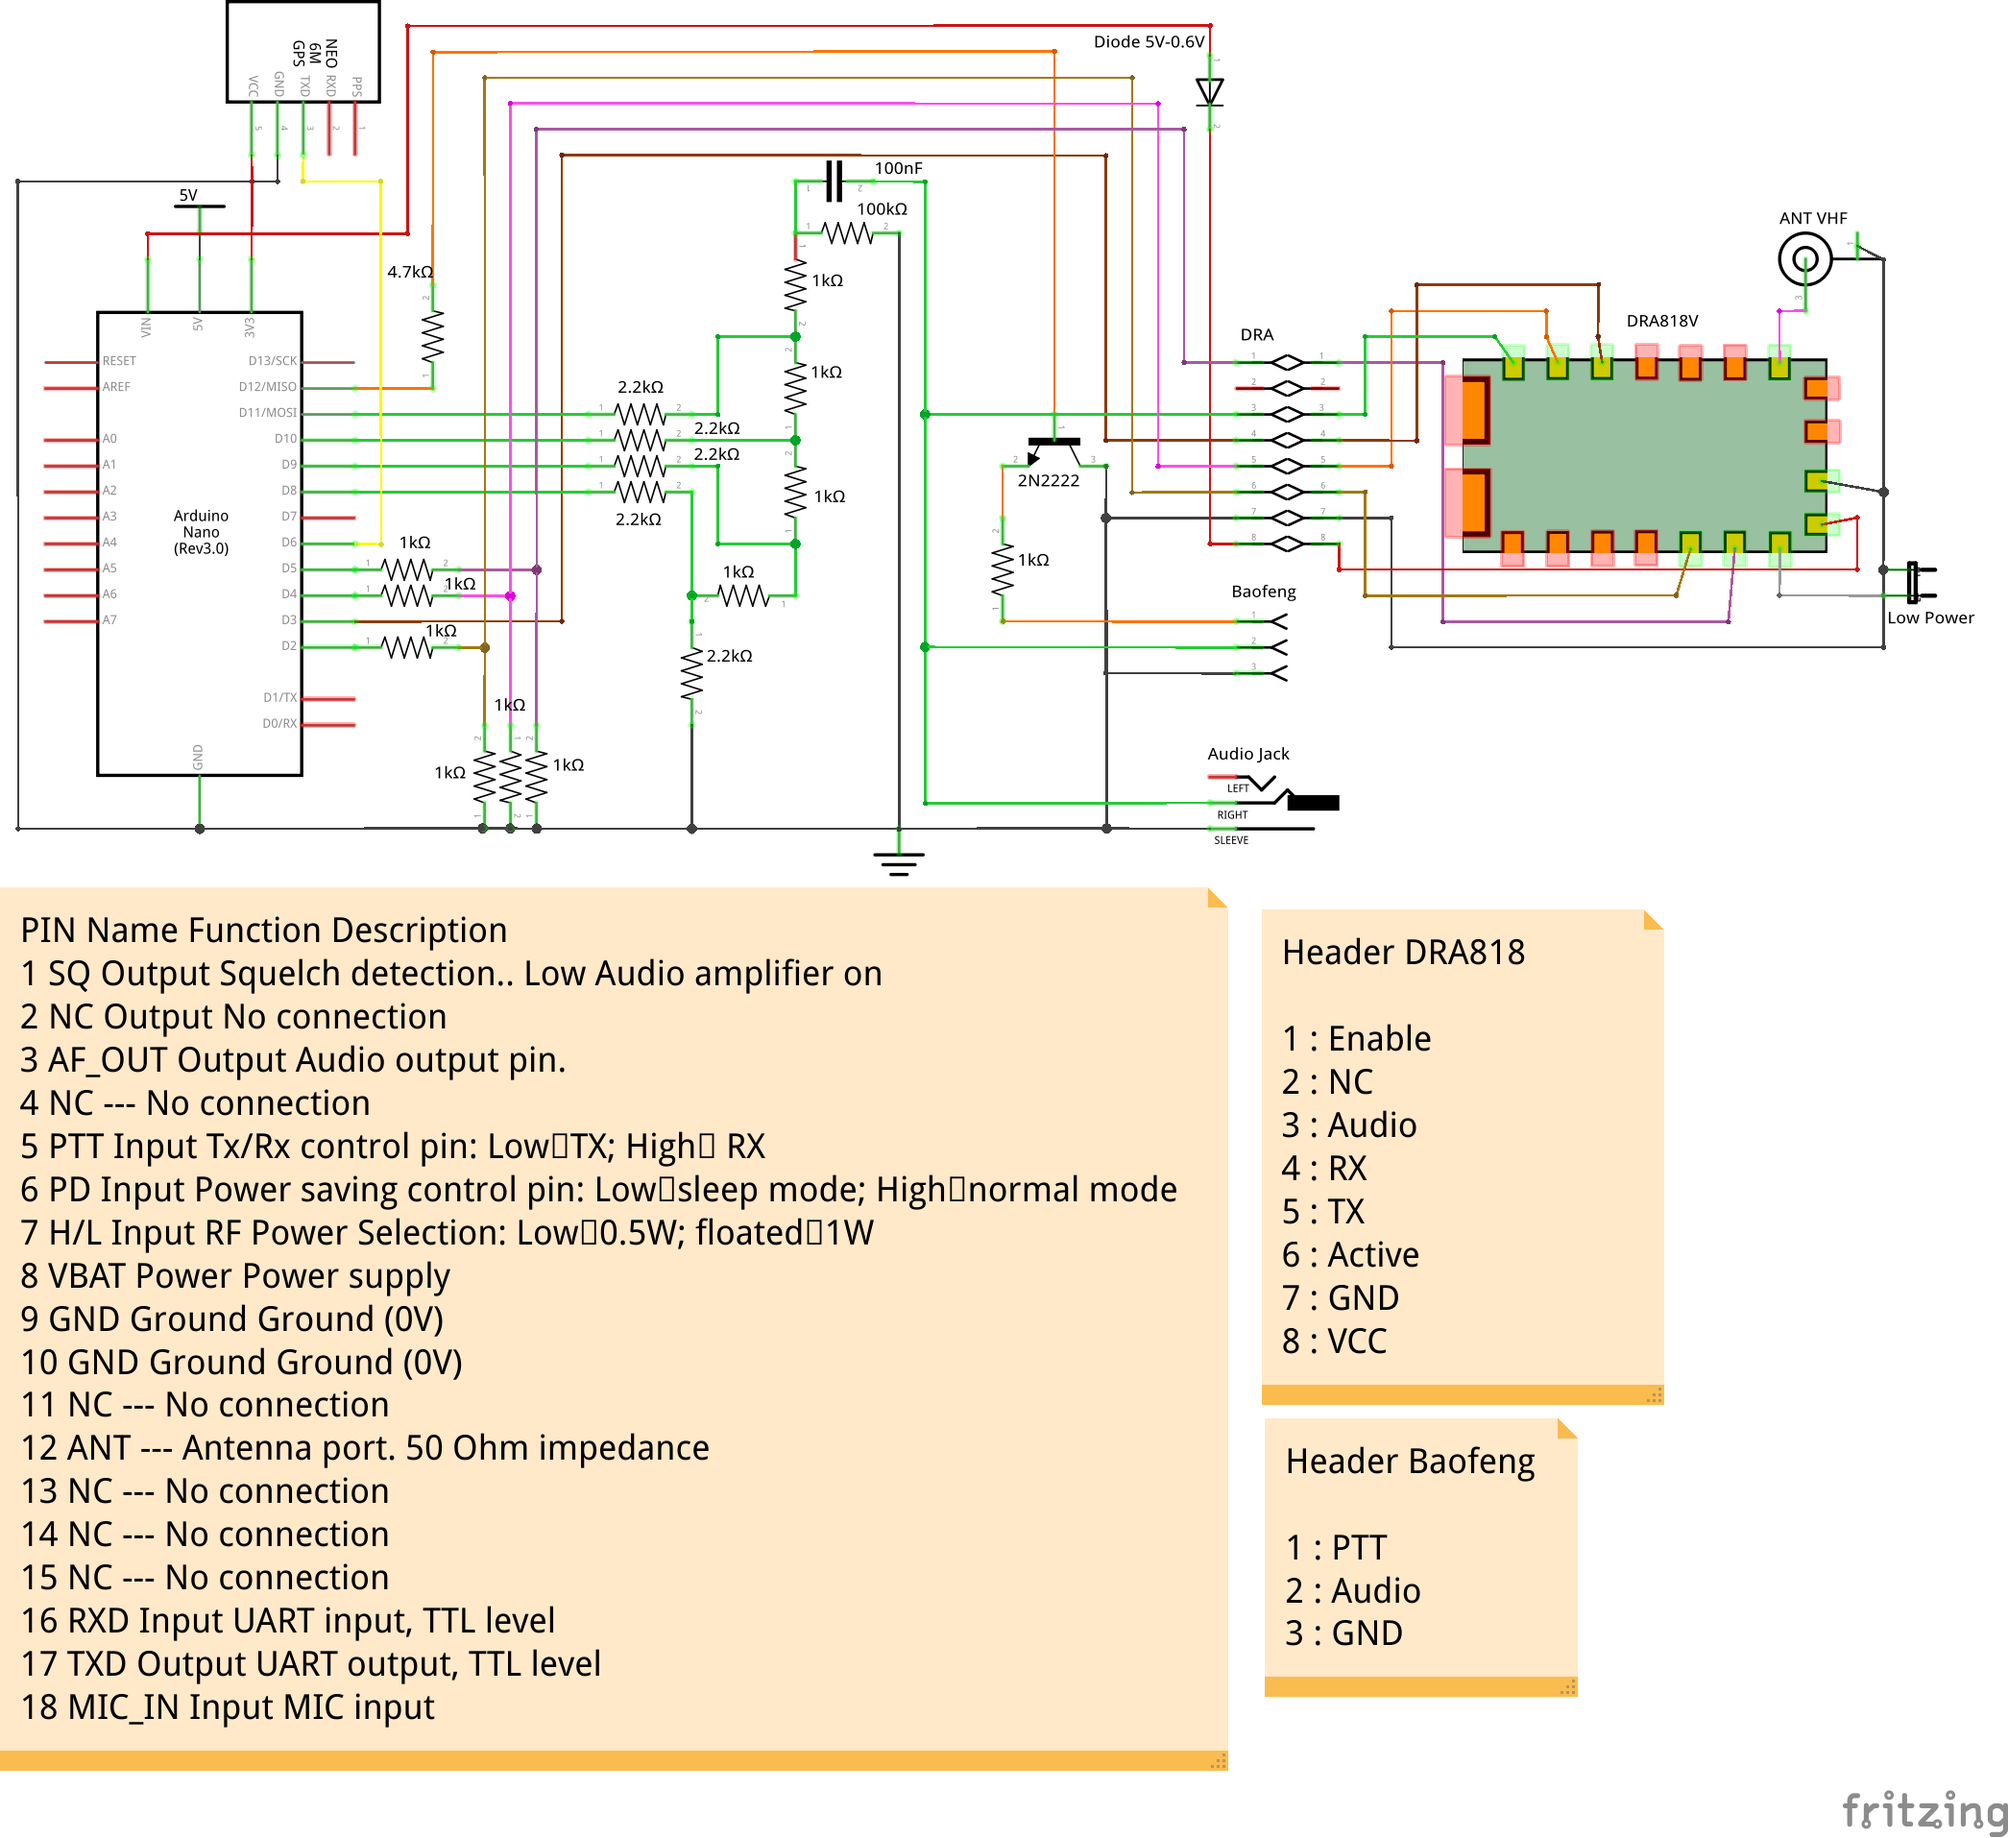
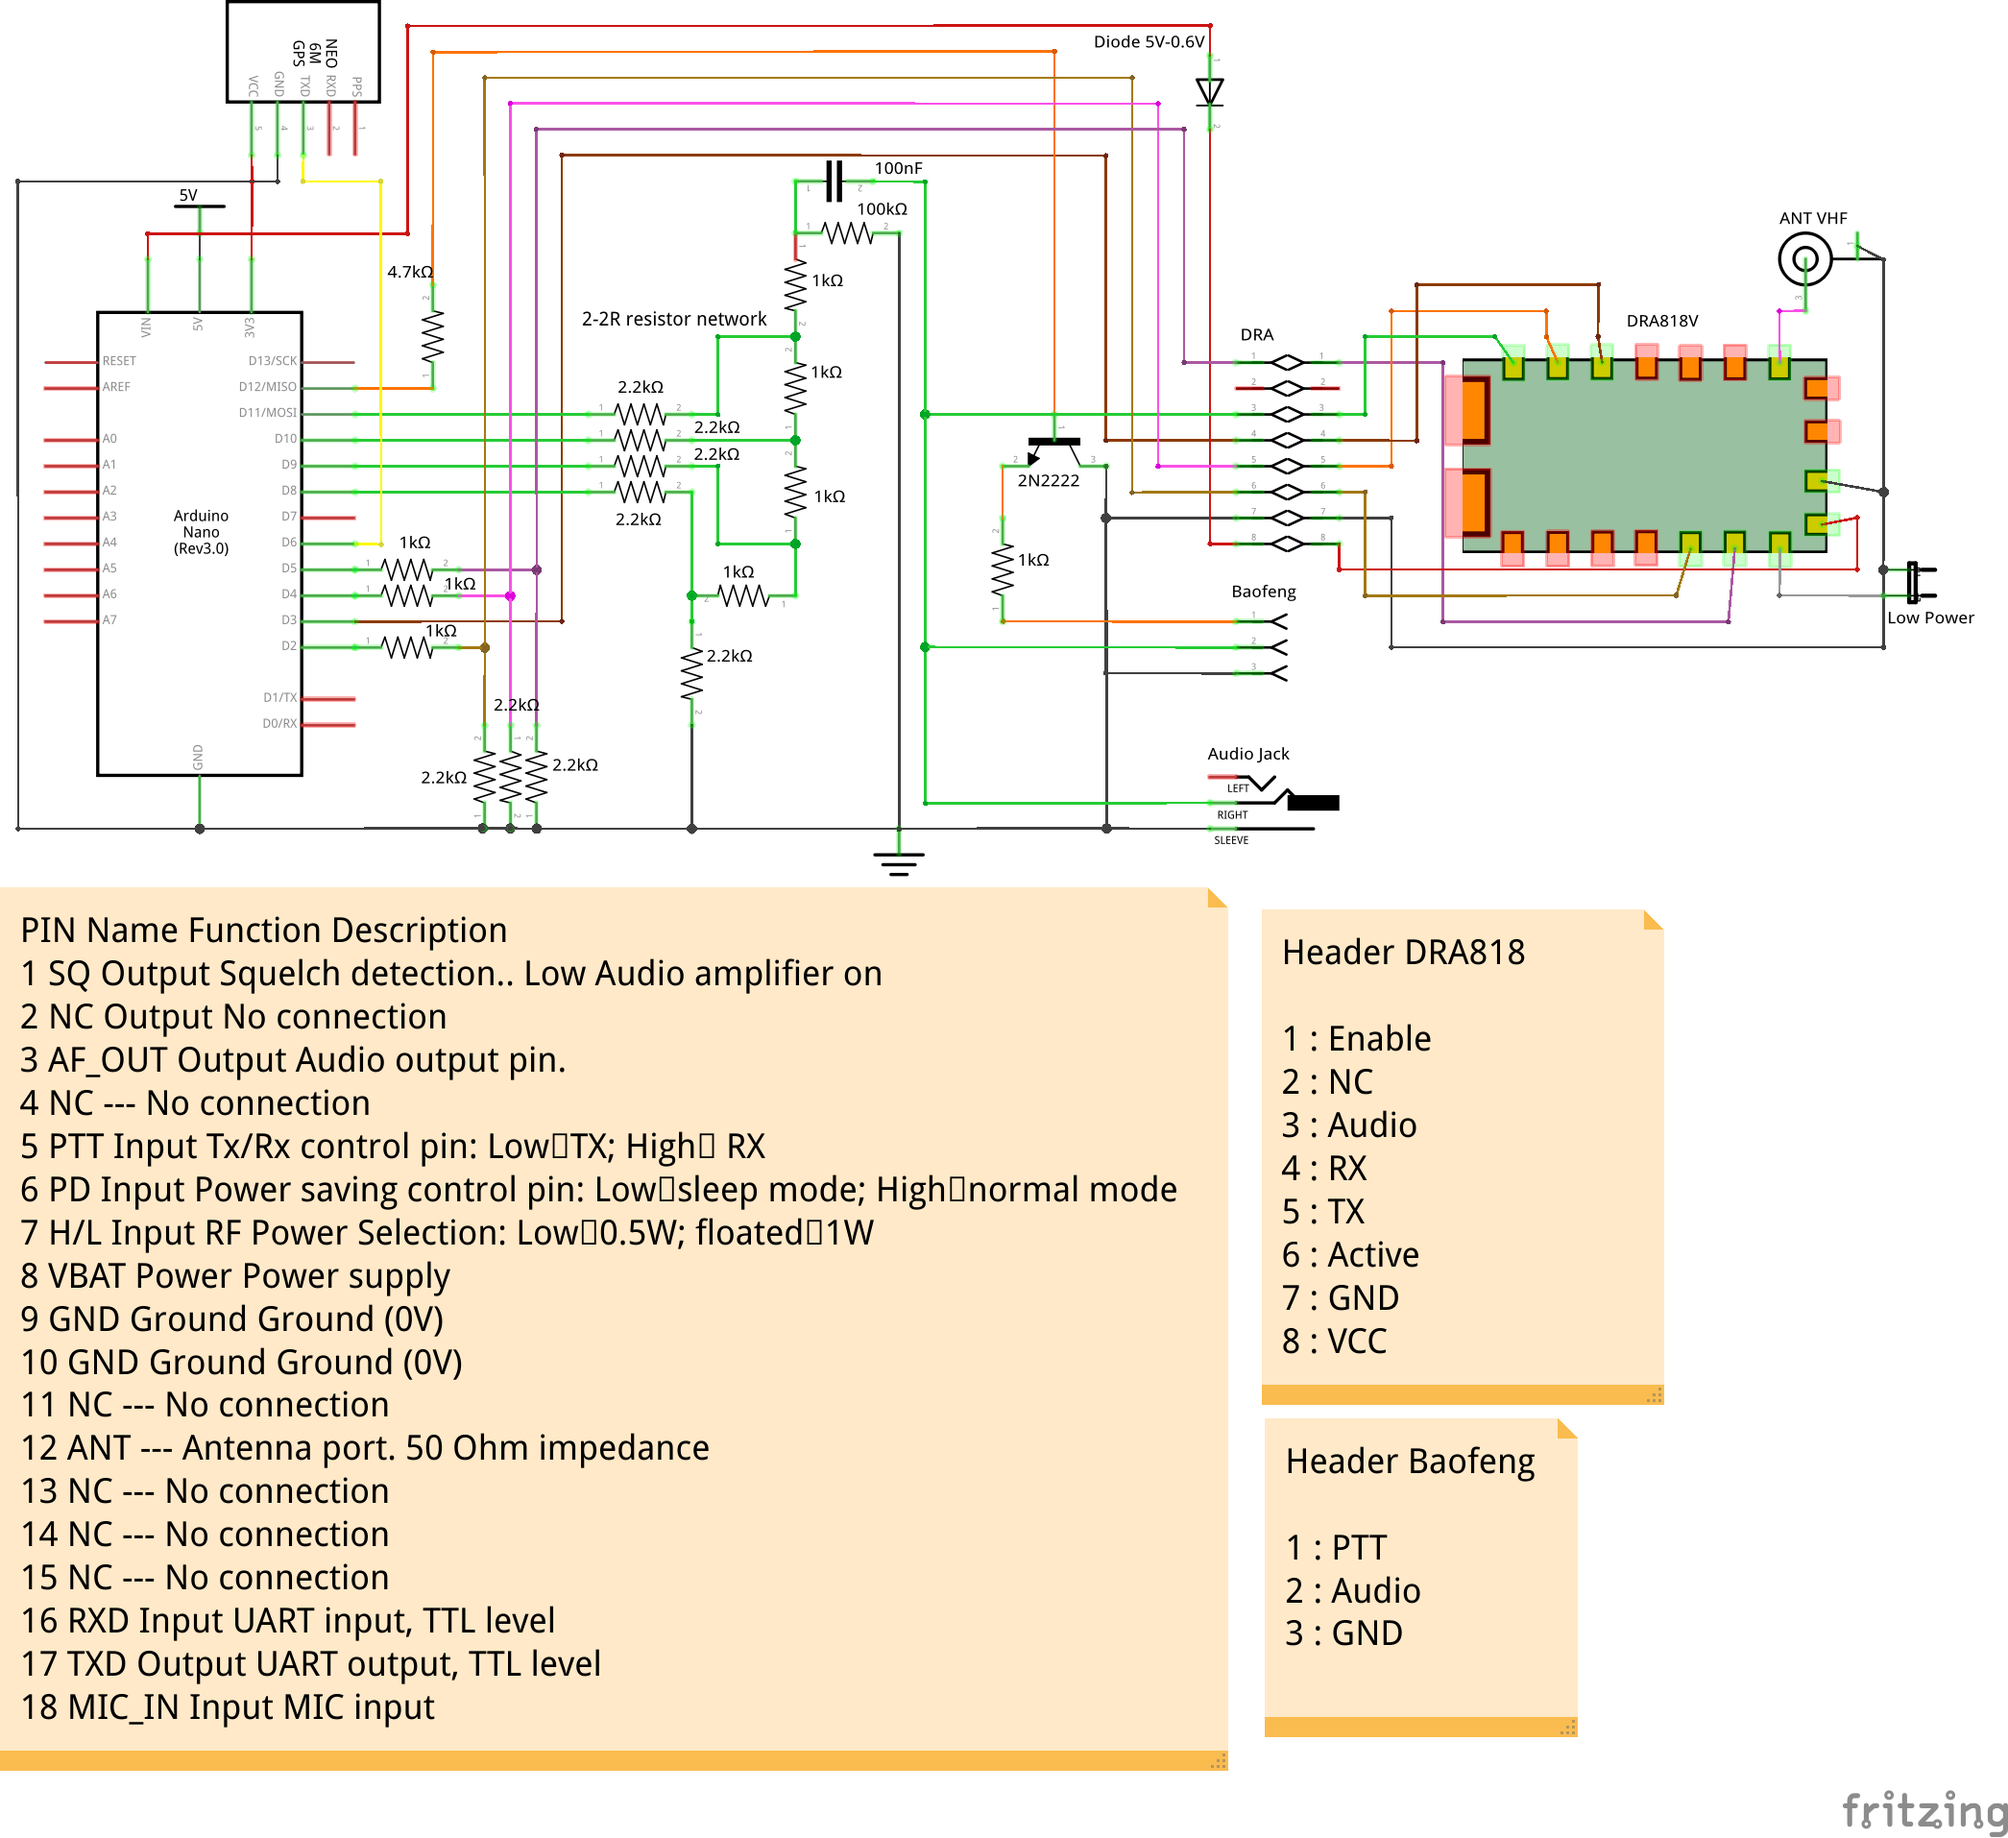
:memo: Add R2R mention + few notes

Changed region(s): [[0.6217, 0.8939, 0.8082, 0.9556]]

diff --git a/README.md b/README.md
@@ -1,15 +1,16 @@
 # GPS tracker on Ham radio APRS network with DRA818 module
 
-
 ## The projet
 
+Inspiration : https://github.com/Toni43/MiniSmartTracker
+
 ### Hardware parts used
-- Arduino [nano](https://store.arduino.cc/arduino-nano)
+- Arduino [Nano](https://store.arduino.cc/arduino-nano)
 - GPS Module ([NEO 6M](https://www.amazon.fr/NEO-6M-GPS-module-puissance-GY-GPS6MV2/dp/B01ICYA4QU))
 - VHF TX module ([DRA818V](http://www.dorji.com/docs/data/DRA818V.pdf))
 
 ### Software parts used
-- [PlatformIO](https://platformio.org/) (better than Arduino IDE)
+- [PlatformIO](https://platformio.org/)
 - [QAPRS lib](https://bitbucket.org/Qyon/arduinoqaprs/src/master/) from Lukasz SQ5RWU
 - [TinyGPS+ lib](http://arduiniana.org/libraries/tinygpsplus/)
 - [DRA818 lib](https://github.com/fatpat/arduino-dra818) from Jereme Loyet
@@ -26,12 +27,18 @@ To accomplish that it has 3 ways :
 - With a Baofeng UV5-R/UVB5 etc connected to the board
 - With an external TX by the jack connector
 
+#### Note
+
+1. The QAPRS lib use a **R2R resistor network** to generate the sound signal. You have to uncomment `APRS_HW_TYPE_R2R` and comment the others in `ArduinoQAPRS.h` if you want to compile. 
+2. If you want to use only PWM pin you can do it with (look at this : https://github.com/handiko/Arduino-APRS#afsk-bit-banging). You'll have to implement the ax25 protocol. PR welcome :)
+3. There are many board for DRA818  ([by Handiko](https://github.com/handiko/Dorji-TX-Shield), [by SV1AFN](https://www.sv1afn.com/dra818.html), [by HamShop.cz](https://www.hamshop.cz/avr-arduino-raspberry-pi-c16/vhf-transceiver-module-134174mhz-1w-dra818v-i266/)).
+4. In boards, Low Pass filter is not always included, **it's recommended to add one** :)
+
 #### Program flow
 
 1. At the startup, the Arduino try to detect if there is a DRA818 module plugged. If the connexion failed, it goes to the Baofeng mode.
 *The sound (AX25) is always present on the jack connector and on Baofeng header pins. We don't have to use multiple options at the same time because sound "intensity" will decrease.*
-2. If the GPS is locked and time is over or speed is high, it sends the coordinates.
-
+2. If the GPS is locked AND (time is over OR speed is over 30 Km/H OR (location is accurate AND location difference is more than 250 meters) ==> send the new location.
 
 ## The author
 
